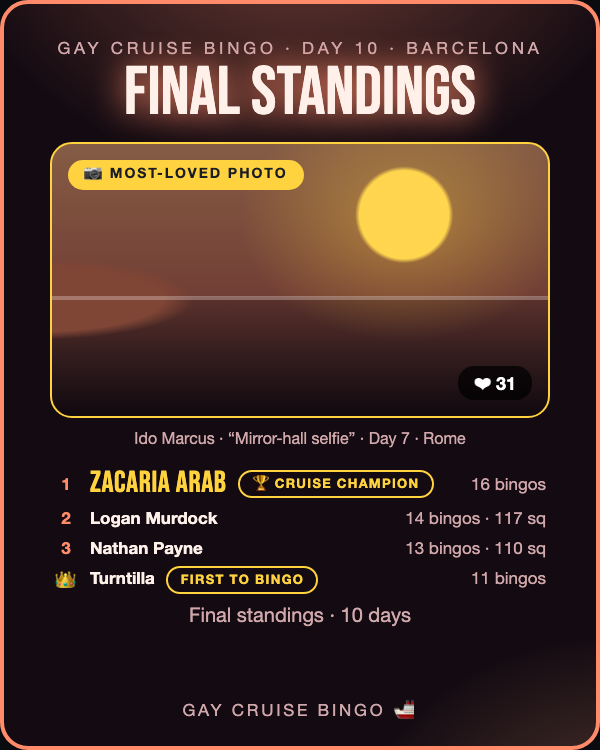
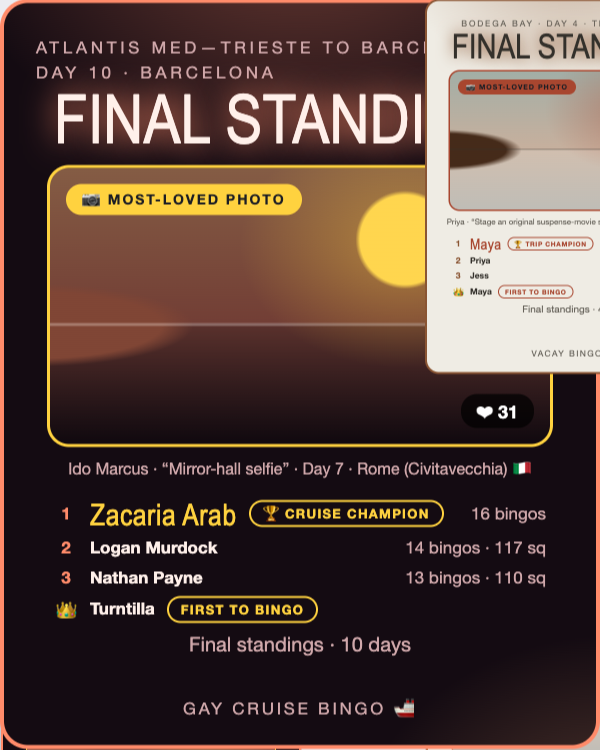
fix(wireframes): refresh Bodega reference assets

diff --git a/plans/daily-cards-wireframes.html b/plans/daily-cards-wireframes.html
@@ -2208,7 +2208,7 @@
     <div class="minisys" data-theme="side-quests">
       <div class="cropboard">
         <div class="grid">
-          <div class="cell m">Best boat name in the harbor</div>
+          <div class="cell m">Find the best boat name in the harbor</div>
           <div class="cell">Capture a colorful buoy or crab pot</div>
           <div class="cell m">Photograph the fog</div>
           <div class="cell">Walk to a Bodega Head viewpoint</div>
@@ -2216,8 +2216,8 @@
           <div class="cell m">Stage an original suspense-movie still</div>
           <div class="cell">Take a windblown group selfie</div>
           <div class="cell">Walk part of the Bodega Dunes</div>
-          <div class="cell m">Somebody says "one more stop"</div>
-          <div class="cell">Detour that becomes the story</div>
+          <div class="cell m">Spot a whale spout, or convincingly claim you did</div>
+          <div class="cell">Find the best bench on this coast and sit in it a while</div>
         </div>
       </div>
       <div class="systoast">
@@ -2312,7 +2312,7 @@
     <div class="minisys" data-theme="the-birds">
       <div class="cropboard">
         <div class="grid">
-          <div class="cell m">Best boat name in the harbor</div>
+          <div class="cell m">Find the best boat name in the harbor</div>
           <div class="cell">Capture a colorful buoy or crab pot</div>
           <div class="cell m">Photograph the fog</div>
           <div class="cell">Walk to a Bodega Head viewpoint</div>
@@ -2320,8 +2320,8 @@
           <div class="cell m">Stage an original suspense-movie still</div>
           <div class="cell">Take a windblown group selfie</div>
           <div class="cell">Walk part of the Bodega Dunes</div>
-          <div class="cell m">Somebody says "one more stop"</div>
-          <div class="cell">Detour that becomes the story</div>
+          <div class="cell m">Spot a whale spout, or convincingly claim you did</div>
+          <div class="cell">Find the best bench on this coast and sit in it a while</div>
         </div>
       </div>
       <div class="systoast">
@@ -3437,10 +3437,10 @@
       <div class="who">Maya</div>
       <div class="mini5">
         <div class="sq on line">Walk part of the Bodega Dunes</div><div class="sq"></div><div class="sq on">Find a seashell on the beach</div><div class="sq"></div><div class="sq"></div>
-        <div class="sq"></div><div class="sq on line">Best boat name in the harbor</div><div class="sq"></div><div class="sq on">Sea glass in a pocket</div><div class="sq"></div>
+        <div class="sq"></div><div class="sq on line">Find the best boat name in the harbor</div><div class="sq"></div><div class="sq on">Photograph a boat name that is pun-y</div><div class="sq"></div>
         <div class="sq on">Capture a colorful buoy or crab pot</div><div class="sq"></div><div class="sq freec line">Main character on the coast</div><div class="sq"></div><div class="sq"></div>
         <div class="sq"></div><div class="sq on">Take a picture of a wildflower</div><div class="sq"></div><div class="sq on line">Photograph the fog</div><div class="sq"></div>
-        <div class="sq"></div><div class="sq"></div><div class="sq on">Pull over for the view</div><div class="sq"></div><div class="sq on line">Take a windblown group selfie</div>
+        <div class="sq"></div><div class="sq"></div><div class="sq on">Photograph something you had to pull over on Highway 1 for</div><div class="sq"></div><div class="sq on line">Take a windblown group selfie</div>
       </div>
       <div class="stat">Bingo #1 · 9 squares · 🦀 Harbor dinner night</div>
       <div class="foot">Vacay Bingo 🧳</div>
